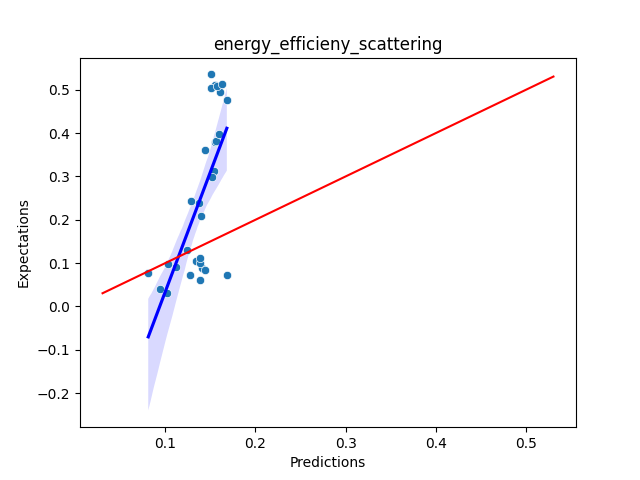
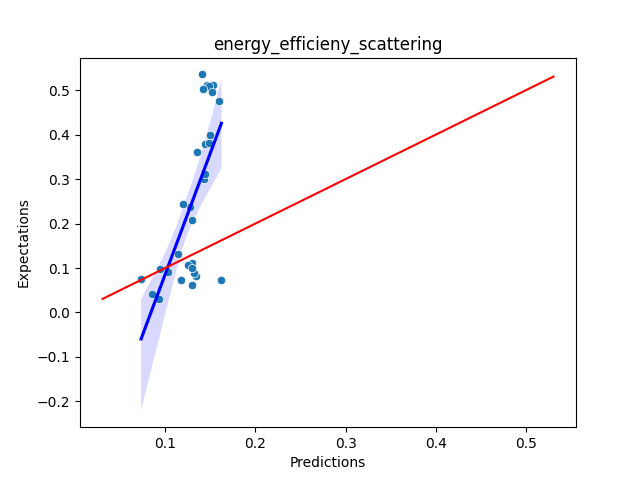
mlp for larger than cache size

diff --git a/Performance_predictors/main.py b/Performance_predictors/main.py
@@ -96,11 +96,10 @@ if __name__ == "__main__":
             # TODO : take into account implementation can be None
             print("running mlp with {} system with {} implementation with cache split".format(system_used, implementation))
 
-
+            path = g.MODEL_PATH + "{}/mlp/{}/{}".format(system_used, MLP_globals.nb_epochs, implementation)
             # Running mlp for larger than cache
             csv_path_larger_than_cache = g.DATA_PATH + "all_format/all_format_{}_{}_larger_than_cache.csv".format(system_used, implementation)
             csv_path_validation_larger_than_cache = g.DATA_PATH + "validation/all_format/all_format_{}_{}_larger_than_cache.csv".format(system_used, implementation)
-            path = g.MODEL_PATH + "{}/mlp/{}/{}".format(system_used, MLP_globals.nb_epochs, implementation)
             validation_dataset_larger_than_cache = dataReader.SparseMatrixDataset(csv_path_validation_larger_than_cache, True)
             validation_loader_larger_than_cache = DataLoader(validation_dataset_larger_than_cache, batch_size=1, shuffle=True)
 
@@ -113,7 +112,7 @@ if __name__ == "__main__":
                                                           system_used,
                                                           implementation,
                                                           "larger")
-            name_larger_than_cache = "tmlp_{}epochs_real_data".format(MLP_globals.nb_epochs)
+            name_larger_than_cache = "mlp_{}epochs_real_data".format(MLP_globals.nb_epochs)
             runners.plot_prediction_dispersion_mlp(mlp_model_larger_than_cache, 
                                                    validation_dataset_larger_than_cache, 
                                                    validation_loader_larger_than_cache,
@@ -121,7 +120,31 @@ if __name__ == "__main__":
                                                    path,
                                                    implementation,
                                                    "larger")
+            
+            
             # Running mlp for smaller than cache
+            csv_path_smaller_than_cache = g.DATA_PATH + "all_format/all_format_{}_{}_smaller_than_cache.csv".format(system_used, implementation)
+            csv_path_valiation_smaller_than_cache = g.DATA_PATH + "validation/all_format/all_format_{}_{}_smaller_than_cache.csv".format(system_used, implementation)
+            validation_dataset_smaller_than_cache = dataReader.SparseMatrixDataset(csv_path_valiation_smaller_than_cache, True)
+            validation_loader_smaller_than_cache = DataLoader(validation_dataset_smaller_than_cache, batch_size=1, shuffle=True)
+
+            mlp_model_smaller_than_cache = runners.run_mlp(MLP_globals.activation_fn,
+                                                          MLP_globals.nb_hidden_layers,
+                                                          MLP_globals.in_dimension - 1,
+                                                          MLP_globals.out_dimension,
+                                                          MLP_globals.hidden_size,
+                                                          csv_path_smaller_than_cache,
+                                                          system_used,
+                                                          implementation,
+                                                          "smaller")
+            name_smaller_than_cache = "mlp_{}epochs_real_data".format(MLP_globals.nb_epochs)
+            runners.plot_prediction_dispersion_mlp(mlp_model_smaller_than_cache, 
+                                                   validation_dataset_smaller_than_cache, 
+                                                   validation_loader_smaller_than_cache,
+                                                   name_smaller_than_cache,
+                                                   path,
+                                                   implementation,
+                                                   "smaller")
             
     elif model_used == "mlp":
         if implementation == "None":
